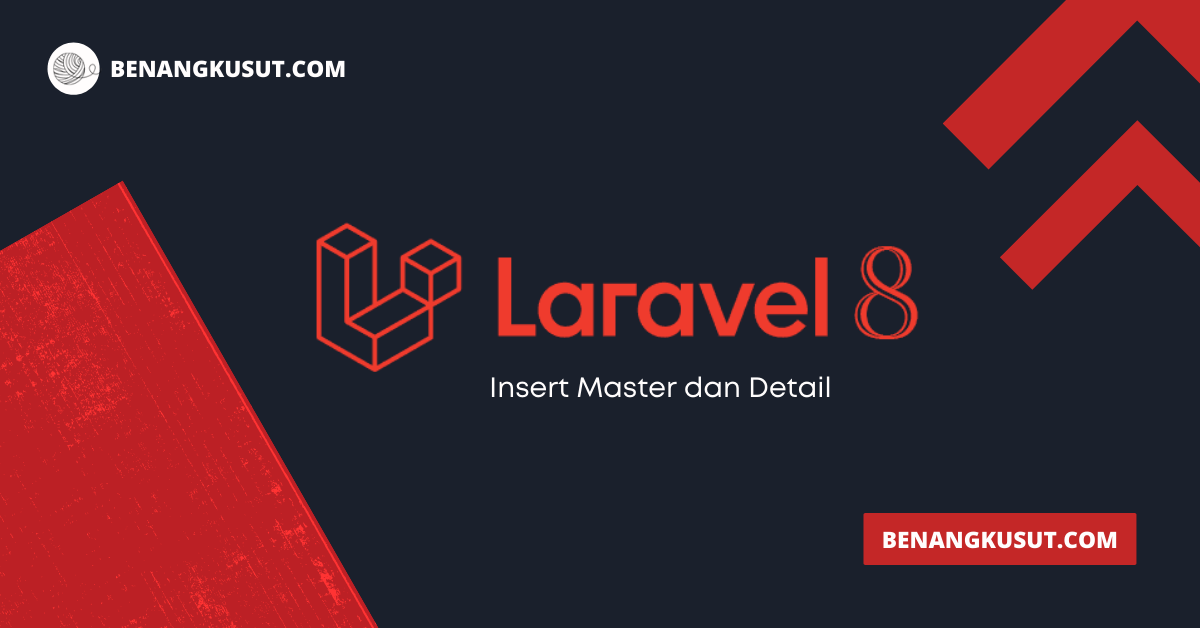
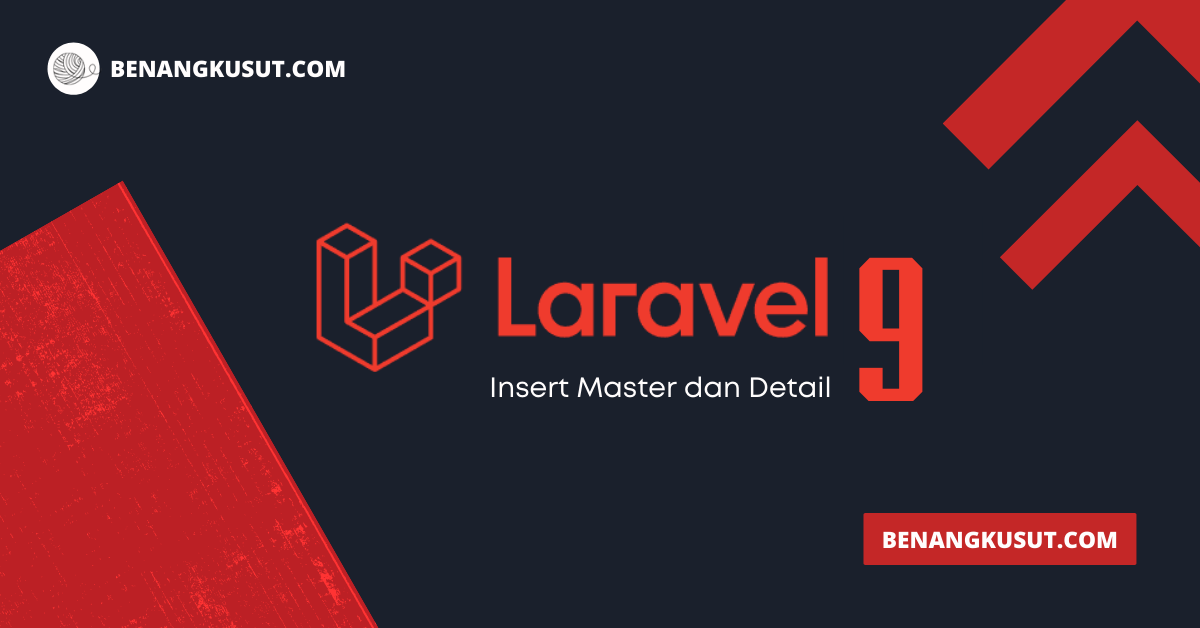
laravel 0

Changed region(s): [[0.7092, 0.3933, 0.7708, 0.6354]]

diff --git a/content/blog/post-1.md b/content/blog/post-1.md
@@ -23,7 +23,7 @@ type: "featured"
 
 <hr>
 
-Untuk melakukan insert Data Master dan Detail dengan laravel 8, kita akan menggunakan jQuery untuk memudahkan kita membuat kolom detail pada interface halaman web Kita.
+Untuk melakukan insert Data Master dan Detail dengan laravel 9, kita akan menggunakan jQuery untuk memudahkan kita membuat kolom detail pada interface halaman web Kita.
 
 #### 1. Buat Project Laravel
 
